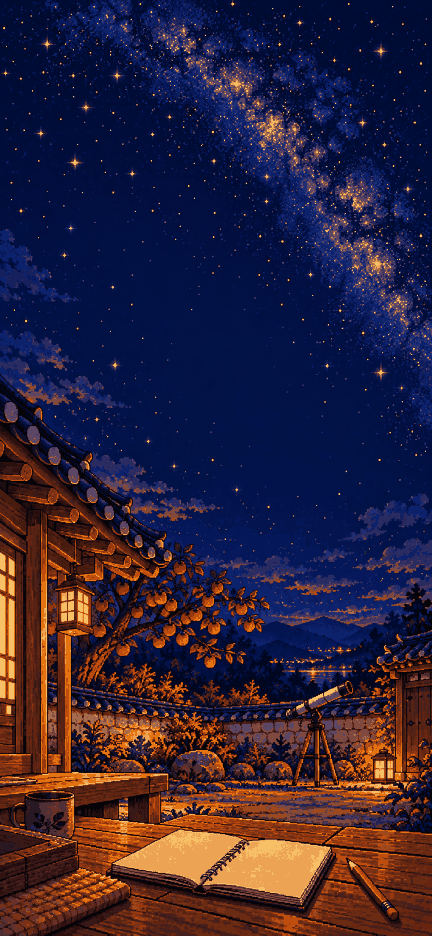
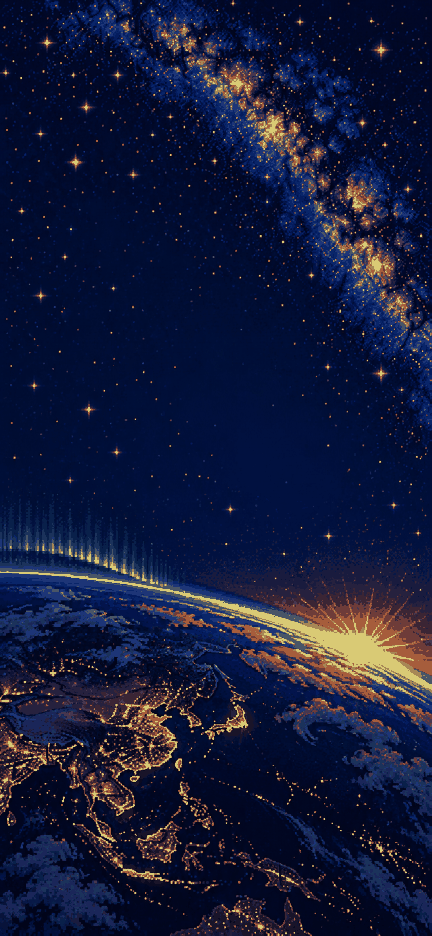
v0.1.39: a stamp for each stunt flight done, two more companions (a small comet for all four stunts, a small aurora for all the photo missions), and a new loading picture: dawn over Earth from space

diff --git a/src/core/pal.js b/src/core/pal.js
@@ -1,11 +1,15 @@
 // The small thing that floats beside Seora (docs/art-order-story-2.md): one is earned
-// at 40, 80 and 120 filled slots, when the journal is full, and when all nine tours are
-// gone round. The one earned last in this order is the one that shows.
+// at 40, 80 and 120 filled slots, for all the stunts, for all the photo missions, when
+// the journal is full, and when all nine tours are gone round. The one earned last in this order is the one that shows.
 // Drawings: public/assets/pals/pal-<id>-1.png to -4.png, four a second.
 export const PALS = [
   { id: 'star', name: '작은 별', slots: 40 },
   { id: 'saturn', name: '작은 토성', slots: 80 },
   { id: 'voyager', name: '작은 보이저', slots: 120 },
+  // Two more, drawn to order on 2026-10-04: for a record in all four stunt flights, and
+  // for all the photo missions.
+  { id: 'comet', name: '작은 혜성', stunts: true },
+  { id: 'aurora', name: '작은 오로라', photos: true },
   { id: 'earth', name: '작은 지구', full: true },
   { id: 'crane', name: '종이학', tours: true },
 ];
@@ -13,9 +17,10 @@ export const PAL_FPS = 4;
 export const PAL_FRAMES = 4;
 
 // done, total: journal slots filled, out of how many. allTours: every tour gone round.
+// allStunts: a record in every stunt flight. allPhotos: every photo mission met.
 // Returns the pal's id, or null before the first is earned.
-export function palFor({ done, total, allTours }) {
-  const earned = PALS.filter((p) => (p.tours ? allTours : p.full ? done >= total : done >= p.slots));
+export function palFor({ done, total, allTours, allStunts = false, allPhotos = false }) {
+  const earned = PALS.filter((p) => (p.tours ? allTours : p.stunts ? allStunts : p.photos ? allPhotos : p.full ? done >= total : done >= p.slots));
   return earned.length ? earned[earned.length - 1].id : null;
 }
 

diff --git a/tests/pal.test.js b/tests/pal.test.js
@@ -3,8 +3,8 @@ import assert from 'node:assert/strict';
 import { existsSync } from 'node:fs';
 import { PALS, PAL_FRAMES, palFor, palFile } from '../src/core/pal.js';
 
-test('five companions, four drawings each, all on file', () => {
-  assert.deepEqual(PALS.map((p) => p.id), ['star', 'saturn', 'voyager', 'earth', 'crane']);
+test('seven companions, four drawings each, all on file', () => {
+  assert.equal(PALS.length, 7);
   for (const pal of PALS) {
     for (let frame = 0; frame < PAL_FRAMES; frame++) assert.ok(existsSync(`public/assets/${palFile(pal.id, frame)}`), palFile(pal.id, frame));
   }
@@ -23,4 +23,10 @@ test('the companion is the last one earned: by slots, by a full journal, by all 
   // The crane comes with the tours, however full the journal is.
   assert.equal(at(1, true), 'crane');
   assert.equal(at(183, true), 'crane');
+  // The comet for all four stunts and the aurora for all the photo missions come after
+  // the first three and before a full journal.
+  assert.deepEqual(PALS.map((p) => p.id), ['star', 'saturn', 'voyager', 'comet', 'aurora', 'earth', 'crane']);
+  assert.equal(palFor({ done: 130, total: 183, allTours: false, allStunts: true }), 'comet');
+  assert.equal(palFor({ done: 10, total: 183, allTours: false, allStunts: true, allPhotos: true }), 'aurora');
+  assert.equal(palFor({ done: 183, total: 183, allTours: false, allStunts: true, allPhotos: true }), 'earth');
 });

diff --git a/src/ui/journal.js b/src/ui/journal.js
@@ -7,6 +7,7 @@ import { starText, postageFile, cardWords } from '../core/postcard.js';
 import { postcardBlob, saveBlob } from './postcardImage.js';
 import { readingKey } from '../core/readingQuiz.js';
 import { TOURS, stopName, stampFile, sceneFile } from '../core/tours.js';
+import { stuntStampFile } from '../core/stunts.js';
 
 const $ = (id) => document.getElementById(id);
 // 로 after a vowel or ㄹ, 으로 after any other final consonant.
@@ -403,7 +404,7 @@ export function createJournal({ bodies, missions, stories = [], craft = [], onGo
   }
 
   // Stunt flights (core/stunts.js): what each asks, the best so far, and a button.
-  // stunts: { all(): [{ id, name, todo, record, on }], start(id), quit() }.
+  // stunts: { all(): [{ id, name, todo, record, on, done }], start(id), quit() }.
   function renderStunts() {
     const list = $('journalStunts');
     list.replaceChildren();
@@ -429,6 +430,8 @@ export function createJournal({ bodies, missions, stories = [], craft = [], onGo
         else stunts.start(stunt.id);
       });
       li.append(title, todo, record, button);
+      // Done once, it carries its stamp, as a tour gone round does.
+      if (stunt.done) li.append(picture(stuntStampFile(stunt.id), `${stunt.name} 도장`, 'stamp'));
       list.append(li);
     }
   }

diff --git a/src/main.js b/src/main.js
@@ -925,7 +925,7 @@ ${STORY_MORE[target.id]}` : told };
     onTourStart: beginTour,
     onTourQuit: endTour,
     stunts: {
-      all: () => STUNTS.map((s) => ({ ...s, record: recordText(s.id, stuntRecords), on: stunt?.id === s.id })),
+      all: () => STUNTS.map((s) => ({ ...s, record: recordText(s.id, stuntRecords), on: stunt?.id === s.id, done: stuntRecords[s.id] !== undefined })),
       start: beginStunt,
       quit: quitStunt,
     },
@@ -1468,7 +1468,11 @@ ${STORY_MORE[target.id]}` : told };
         see: performance.now() < seeUntil ? seeKind : null,
         talk: say.showing(),
         // The companion earned last (core/pal.js); drawn beside the sprite character only.
-        pal: palFor({ ...tally(), allTours: allToursDone(progress) }),
+        pal: palFor({
+          ...tally(), allTours: allToursDone(progress),
+          allStunts: STUNTS.every((s) => stuntRecords[s.id] !== undefined),
+          allPhotos: progress.photos.length >= MISSIONS.length,
+        }),
         read: performance.now() < readUntil,
         // Getting up as soon as she moves off.
         sit: performance.now() < sitUntil && Boolean(visit) && hasArrived(visit),

diff --git a/tests/stunts.test.js b/tests/stunts.test.js
@@ -1,7 +1,7 @@
 import { test } from 'vitest';
 import assert from 'node:assert/strict';
 import {
-  STUNTS, startStunt, stepStunt, stuntStatus, recordStunt, sanitizeStunts, recordText, valueText, stuntById,
+  STUNTS, stuntStampFile, startStunt, stepStunt, stuntStatus, recordStunt, sanitizeStunts, recordText, valueText, stuntById,
 } from '../src/core/stunts.js';
 import { BODIES, bodyById } from '../src/core/bodies.js';
 
@@ -160,4 +160,9 @@ test('through the gap in the rings of Saturn: only a crossing inside the Cassini
   assert.equal(stepStunt(run, cross(0.765), 1).done, null);
   assert.equal(valueText('ringGap', 41234.4), '초속 41,234km');
   assert.equal(recordStunt({ ringGap: 30000 }, 'ringGap', 41234.4).best, true);
+});
+
+test('each stunt has a stamp drawing', async () => {
+  const { existsSync } = await import('node:fs');
+  for (const s of STUNTS) assert.ok(existsSync(`public/assets/${stuntStampFile(s.id)}`), s.id);
 });

diff --git a/src/core/changes.js b/src/core/changes.js
@@ -3,6 +3,8 @@
 // is heard goes in here; how it was done does not. Add a line at the top of its day
 // when something a player would notice is changed.
 export const CHANGES = [
+  { day: '2026-10-04', text: '불러오는 그림이 우주에서 본 지구의 새벽으로 바뀌었습니다.' },
+  { day: '2026-10-04', text: '묘기를 해내면 수첩에 도장이 찍힙니다. 작은 혜성과 작은 오로라가 따라다닐 수 있습니다.' },
   { day: '2026-10-04', text: '서라가 볼거리를 올려다보거나 가리키고, 말할 때 입을 움직입니다.' },
   { day: '2026-10-04', text: '서라가 쉴 때 하품을 하고, 수첩에 적고, 망원경을 보고, 주먹밥을 먹습니다.' },
   { day: '2026-10-04', text: '화성 남극에 흰 극관이 생겼습니다.' },

diff --git a/src/core/stunts.js b/src/core/stunts.js
@@ -22,6 +22,11 @@ export const STUNTS = [
   { id: 'ringGap', name: '고리 틈 지나기', todo: '토성 고리의 검은 틈(카시니 간극, 폭 4,700km)으로 고리를 건너기. 지나는 빠르기를 잰다', better: 'more', unit: 'km/s', line: '고리 사이로 쏙 지나왔어!' },
 ];
 
+// The rubber stamp a stunt leaves in the journal once it has a record (drawn to order,
+// 2026-10-04): public/assets/notebook/stamp-<name>.png.
+const STUNT_STAMPS = { moonRun: 'moon-run', moonSkim: 'moon-skim', earthLap: 'earth-lap', ringGap: 'ring-gap' };
+export const stuntStampFile = (id) => `notebook/stamp-${STUNT_STAMPS[id]}.png`;
+
 export function stuntById(id) {
   return STUNTS.find((s) => s.id === id) ?? null;
 }

diff --git a/style.css b/style.css
@@ -3356,3 +3356,28 @@ dialog .sheetHead .textSize button:disabled {
   margin:0;
   line-height:1.4;
 }
+
+/* A stunt flight done once carries its stamp, as a tour does (ui/journal.js). */
+#journalStunts li {
+  position:relative;
+}
+
+#journalStunts .stamp {
+  position:absolute;
+  top:10px;
+  right:8px;
+  width:56px;
+  height:56px;
+  padding:4px;
+  border:1px solid #b79a6a66;
+  border-radius:4px;
+  background:#fffaf0;
+  image-rendering:pixelated;
+  transform:rotate(-8deg);
+}
+
+#journalStunts li:has(.stamp) strong,
+#journalStunts li:has(.stamp) .stops {
+  display:block;
+  padding-right:72px;
+}

diff --git a/README.md b/README.md
@@ -242,7 +242,7 @@ npm run dev
 npm test
 ```
 
-천체 배치와 공전, 제한 속도, 가속과 감속, 표면 충돌, 화면 구도 판정, 미니맵 좌표, 이름표 규칙과 겹침, 사진 임무 19개, 이야기 장소 94곳, 오늘의 하늘, 배경 음악, 수첩 기록과 목록 순서, 장소 곁으로 내려가기, 오로라·번개·분출, 사진첩, 타원 궤도, 혜성 꼬리, 별똥별, 소행성대, 탐사선 자리와 보이는 거리, 도킹, 순간 이동, 하늘 좌표, 태양 가림, 고리 통과, 캐릭터 그림 고르기와 조명, 알림 문구, 첫 안내, 사실 문장, 할머니의 쪽지가 나오는 때와 순서를 검사한다. 마지막 칸이 열리는 때, 엽서의 별과 답장이 오는 날도 검사한다. 여행 코스의 차례와 도착 판정도 검사한다. 오늘의 부탁도 검사한다. 이야기 카드의 문제 94개가 카드 글 안에 답이 있는지도 검사한다. 세로 화면 틀의 크기도 검사한다. 뒤 보기의 방향과 수첩 글자 크기 다섯 단계도 검사한다. 새 볼거리 아홉의 자리와 알림도 검사한다. 쪽지 화면의 버전 표기도 검사한다. 위성 그림자의 자리와 가장자리도 검사한다. 하늘 소식의 차례와 시각도 검사한다. 이번 주에 바뀐 것의 목록과 한국어 음성도 검사한다. 시험은 486개다.
+천체 배치와 공전, 제한 속도, 가속과 감속, 표면 충돌, 화면 구도 판정, 미니맵 좌표, 이름표 규칙과 겹침, 사진 임무 19개, 이야기 장소 94곳, 오늘의 하늘, 배경 음악, 수첩 기록과 목록 순서, 장소 곁으로 내려가기, 오로라·번개·분출, 사진첩, 타원 궤도, 혜성 꼬리, 별똥별, 소행성대, 탐사선 자리와 보이는 거리, 도킹, 순간 이동, 하늘 좌표, 태양 가림, 고리 통과, 캐릭터 그림 고르기와 조명, 알림 문구, 첫 안내, 사실 문장, 할머니의 쪽지가 나오는 때와 순서를 검사한다. 마지막 칸이 열리는 때, 엽서의 별과 답장이 오는 날도 검사한다. 여행 코스의 차례와 도착 판정도 검사한다. 오늘의 부탁도 검사한다. 이야기 카드의 문제 94개가 카드 글 안에 답이 있는지도 검사한다. 세로 화면 틀의 크기도 검사한다. 뒤 보기의 방향과 수첩 글자 크기 다섯 단계도 검사한다. 새 볼거리 아홉의 자리와 알림도 검사한다. 쪽지 화면의 버전 표기도 검사한다. 위성 그림자의 자리와 가장자리도 검사한다. 하늘 소식의 차례와 시각도 검사한다. 이번 주에 바뀐 것의 목록과 한국어 음성도 검사한다. 시험은 487개다.
 
 ## 공개
 
@@ -266,7 +266,7 @@ npm test
 세 부분으로 나뉜다. 정확한 문구는 [LICENSE](LICENSE) 에 있다. MIT 라이선스가 미치는 것은 코드뿐이고, 캐릭터 그림과 외부 사진·지도에는 미치지 않는다.
 
 - **코드**: MIT 라이선스. 저작권 표시만 남기면 누구나 쓰고, 고치고, 팔 수 있다.
-- **권리 보유 (MIT에서 제외)**: 도트 그림 캐릭터 서라와 그 그림 파일 229장(`public/assets/seora-sprites/`), 이야기 그림 42장(`public/assets/notebook/`: 대문과 마루와 쪽지 장면, 여는 장면 둘, 우편함, 코스 도장, 코스 장면 아홉, 우표와 소인, 별, 신문 스크랩, 색연필 표시), 불러오는 화면과 바깥 배경 그림 2장(`public/assets/scenes/`), 와디럼 그림(`public/assets/wadi-rum.png`), 따라다니는 것 20장(`public/assets/pals/`), 전에 쓰던 종이 인형 캐릭터의 디자인(얼굴 없는 종이 인형 마법사, 은색 쌍갈래 머리, 금 테두리 흰 케이프와 흰 로브. 그리는 코드는 v0.1.23에서 뺐다), 독도 그림(`public/assets/dokdo.png`), 앱 아이콘(`public/icons/`), 게임 이름 "우주 한량"과 "Space Oddity — 우주 한량". 허락 없이 복사하거나 자기 작품에 쓸 수 없다. 이 코드를 가져다 쓰는 사람은 캐릭터, 아이콘, 이름을 자기 것으로 바꿔야 한다.
+- **권리 보유 (MIT에서 제외)**: 도트 그림 캐릭터 서라와 그 그림 파일 229장(`public/assets/seora-sprites/`), 이야기 그림 46장(`public/assets/notebook/`: 대문과 마루와 쪽지 장면, 여는 장면 둘, 우편함, 코스 도장, 코스 장면 아홉, 우표와 소인, 별, 신문 스크랩, 색연필 표시), 불러오는 화면과 바깥 배경 그림 2장(`public/assets/scenes/`), 와디럼 그림(`public/assets/wadi-rum.png`), 따라다니는 것 28장(`public/assets/pals/`), 전에 쓰던 종이 인형 캐릭터의 디자인(얼굴 없는 종이 인형 마법사, 은색 쌍갈래 머리, 금 테두리 흰 케이프와 흰 로브. 그리는 코드는 v0.1.23에서 뺐다), 독도 그림(`public/assets/dokdo.png`), 앱 아이콘(`public/icons/`), 게임 이름 "우주 한량"과 "Space Oddity — 우주 한량". 허락 없이 복사하거나 자기 작품에 쓸 수 없다. 이 코드를 가져다 쓰는 사람은 캐릭터, 아이콘, 이름을 자기 것으로 바꿔야 한다.
 - **외부 자료 (MIT에서 제외)**: 각자의 조건을 따른다. [THIRD-PARTY.md](THIRD-PARTY.md) 에 파일마다 출처와 라이선스를 적었다.
   - 화면의 아이콘 14장(`public/assets/ui/icon-*.svg`): 이 게임에서 그린 선 그림이고 코드와 같은 MIT다.
   - 글꼴: 화면의 글자는 Pretendard(길형진), 할머니의 손글씨는 나눔손글씨 펜(네이버, 산돌), 서라의 말풍선과 덧글은 개구(The Gaegu Project Authors)다. 셋 다 SIL 오픈 폰트 라이선스 1.1이고, 글꼴 파일을 고치지 않고 `public/fonts/` 에 넣었다(3.1MB, 1.7MB, 0.9MB).

diff --git a/docs/Space-Oddity-상세기획서.md b/docs/Space-Oddity-상세기획서.md
@@ -363,6 +363,8 @@ v0.1.35에 넣은 것(이로써 스무 가지가 모두 들어갔다):
 - 새 알림 넷(`ering:saturn`, `flare:sun`, `flow:jupiter`, `tracks:mars`)과 서라의 한마디 넷. 플레어 알림은 해에서 3반지름(209만km) 안에서 뜨므로 지구 곁에서도 뜬다.
 - 셰이더에서 `patch` 는 예약어라 변수 이름으로 쓰면 게임이 통째로 멈춘다(개발 서버가 2분쯤 멈췄다).
 
+v0.1.39: 그림 주문 여덟 가지 가운데 나머지를 넣었다. 묘기 도장 넷, 따라다니는 것 둘, 불러오는 그림. 모두 처음 받은 것을 그대로 썼다(주문 글은 `assets/codex/small/`). 넷째로 적었던 "모형이 없는 지구 장소의 그림 카드"는 할 것이 없었다: 지구의 이야기 장소는 넷뿐이고(독도, 와디럼은 그림 카드, 나로우주센터와 39A 발사대는 모형) 모두 이미 무언가 서 있다. 목록을 적을 때 확인하지 않은 잘못이다.
+
 v0.1.38: 화성 남극에 흰 극관을 그렸다(`textured.frag` 의 `polarCap`: 남위 80도 안쪽, 가장자리는 들쭉날쭉). 검은 분출이 그 위에 선다. 남극은 늘 어스름이라 극관도 회색으로 보인다.
 
 v0.1.37, 눈으로 보지 못했던 것을 다시 찍어 보고 고친 것(`.playwright-mcp/frames.js`: 한 자리를 시간 간격을 두고 거듭 찍는다):
@@ -756,7 +758,7 @@ build/art-order.sh <작업 폴더> <주문 글.txt> <받을 파일.png> [참고 
 |---|---|---|
 | 코스 장면 아홉(`notebook/tour-*.png`) | 384×216 | 수첩의 코스 갈래. 코스마다 그 길의 장면이 흰 테두리 사진처럼 붙는다(달의 발자국, 아폴로 착륙선과 월면차, 토성 곁의 보이저, 엔셀라두스의 물기둥, 화성의 탐사차, 마리너 계곡, 밤바다의 발사장, 혜성과 탐사선, 와디럼의 촬영기). 도장은 그 사진 귀퉁이에 찍힌다 |
 | 와디럼(`wadi-rum.png`) | 384×192, 배경 투명 | 독도처럼 그 자리에 서는 그림이다(`render/craft.js` 의 `SITE_CARDS`) |
-| 불러오는 화면(`scenes/loading.png`) | 432×936 | 한밤의 한옥 마당. 위쪽 하늘에서 서라가 날고 아래에 마루의 수첩과 망원경이 있다 |
+| 불러오는 화면(`scenes/loading.png`) | 432×936 | 2026-10-04부터 우주에서 본 지구의 새벽이다(밤의 지구와 도시 불빛, 가장자리로 떠오르는 해, 왼쪽의 오로라, 위쪽의 은하수. 시작 자리를 해돋이로 옮긴 데 맞춰 새로 받았다). 그 전의 그림: 한밤의 한옥 마당. 위쪽 하늘에서 서라가 날고 아래에 마루의 수첩과 망원경이 있다 |
 | 바깥 배경(`scenes/backdrop.png`) | 960×540 | PC에서 휴대전화 모양 틀 둘레를 채우는 어두운 밤하늘과 기와지붕 |
 
 - 사람과 글자는 그리지 않게 했다(할머니는 나오지 않는다는 이야기의 규칙, 그림 속 글자는 틀린다는 경험).
@@ -771,7 +773,8 @@ build/art-order.sh <작업 폴더> <주문 글.txt> <받을 파일.png> [참고 
 |---|---|
 | `note-1969.png`, `note-1979.png`, `note-1986.png`, `note-last.png` | 그 쪽지를 처음 읽을 때 상황 글 위(`NOTES` 의 `image`, `imageAlt`). 이로써 쪽지 다섯 장 모두 그림이 있다 |
 | `mailbox.png` | 답장 종이의 상황 글 위 |
-| `pal-*-1` → `4` (다섯 가지) | 서라 곁. 아래 참고 |
+| `pal-*-1` → `4` (일곱 가지) | 서라 곁. 아래 참고. 2026-10-04에 둘을 더했다: 작은 혜성(묘기 넷에 모두 기록이 있을 때), 작은 오로라(사진 임무를 모두 했을 때). 차례는 별, 토성, 보이저, 혜성, 오로라, 지구, 종이학이고 맨 나중 것이 보인다 |
+| `stamp-moon-run`, `stamp-moon-skim`, `stamp-earth-lap`, `stamp-ring-gap` | 48×48 | 묘기 도장 넷(2026-10-04). 기록이 생긴 묘기의 줄 오른쪽에 찍힌다(`stuntStampFile`). 붉은 잉크 한 색 |
 | `stamp-week.png` | 오늘의 부탁을 7일(그리고 14일, 21일…) 이어 했을 때 화면 오른쪽에 찍힌다 |
 | `mark-right.png`, `mark-wrong.png` | 이야기 카드의 문제를 풀었을 때 결과 글 앞. 맞힌 곳은 수첩의 그 줄 이름 앞에 동그라미가 남는다(전의 ◎ 글자를 대신한다) |
 | `day-star.png` | 수첩의 오늘의 부탁 쪽지에서 지난 7일(오늘이 맨 오른쪽) 가운데 해낸 날. 안 한 날은 작은 점(`lastWeek`) |
@@ -1244,7 +1247,7 @@ build/art-order.sh <작업 폴더> <주문 글.txt> <받을 파일.png> [참고 
 
 ## 19. 검사 기준
 
-### 19.1 자동 검사 (Vitest, 486개. 아래 목록은 283개일 때의 것이고, 그 뒤에 는 것은 각 절에 적었다)
+### 19.1 자동 검사 (Vitest, 487개. 아래 목록은 283개일 때의 것이고, 그 뒤에 는 것은 각 절에 적었다)
 
 - 천체 표: 실제 반지름, 행성 1/100과 위성 1/10 압축, 겹침 없음, 공전 거리 유지와 반주기 반대편
 - 시작: 9,129km, 90도, 넓은 화면에서 지구와 태양 가장자리, 세로 화면에서 지구 정면
